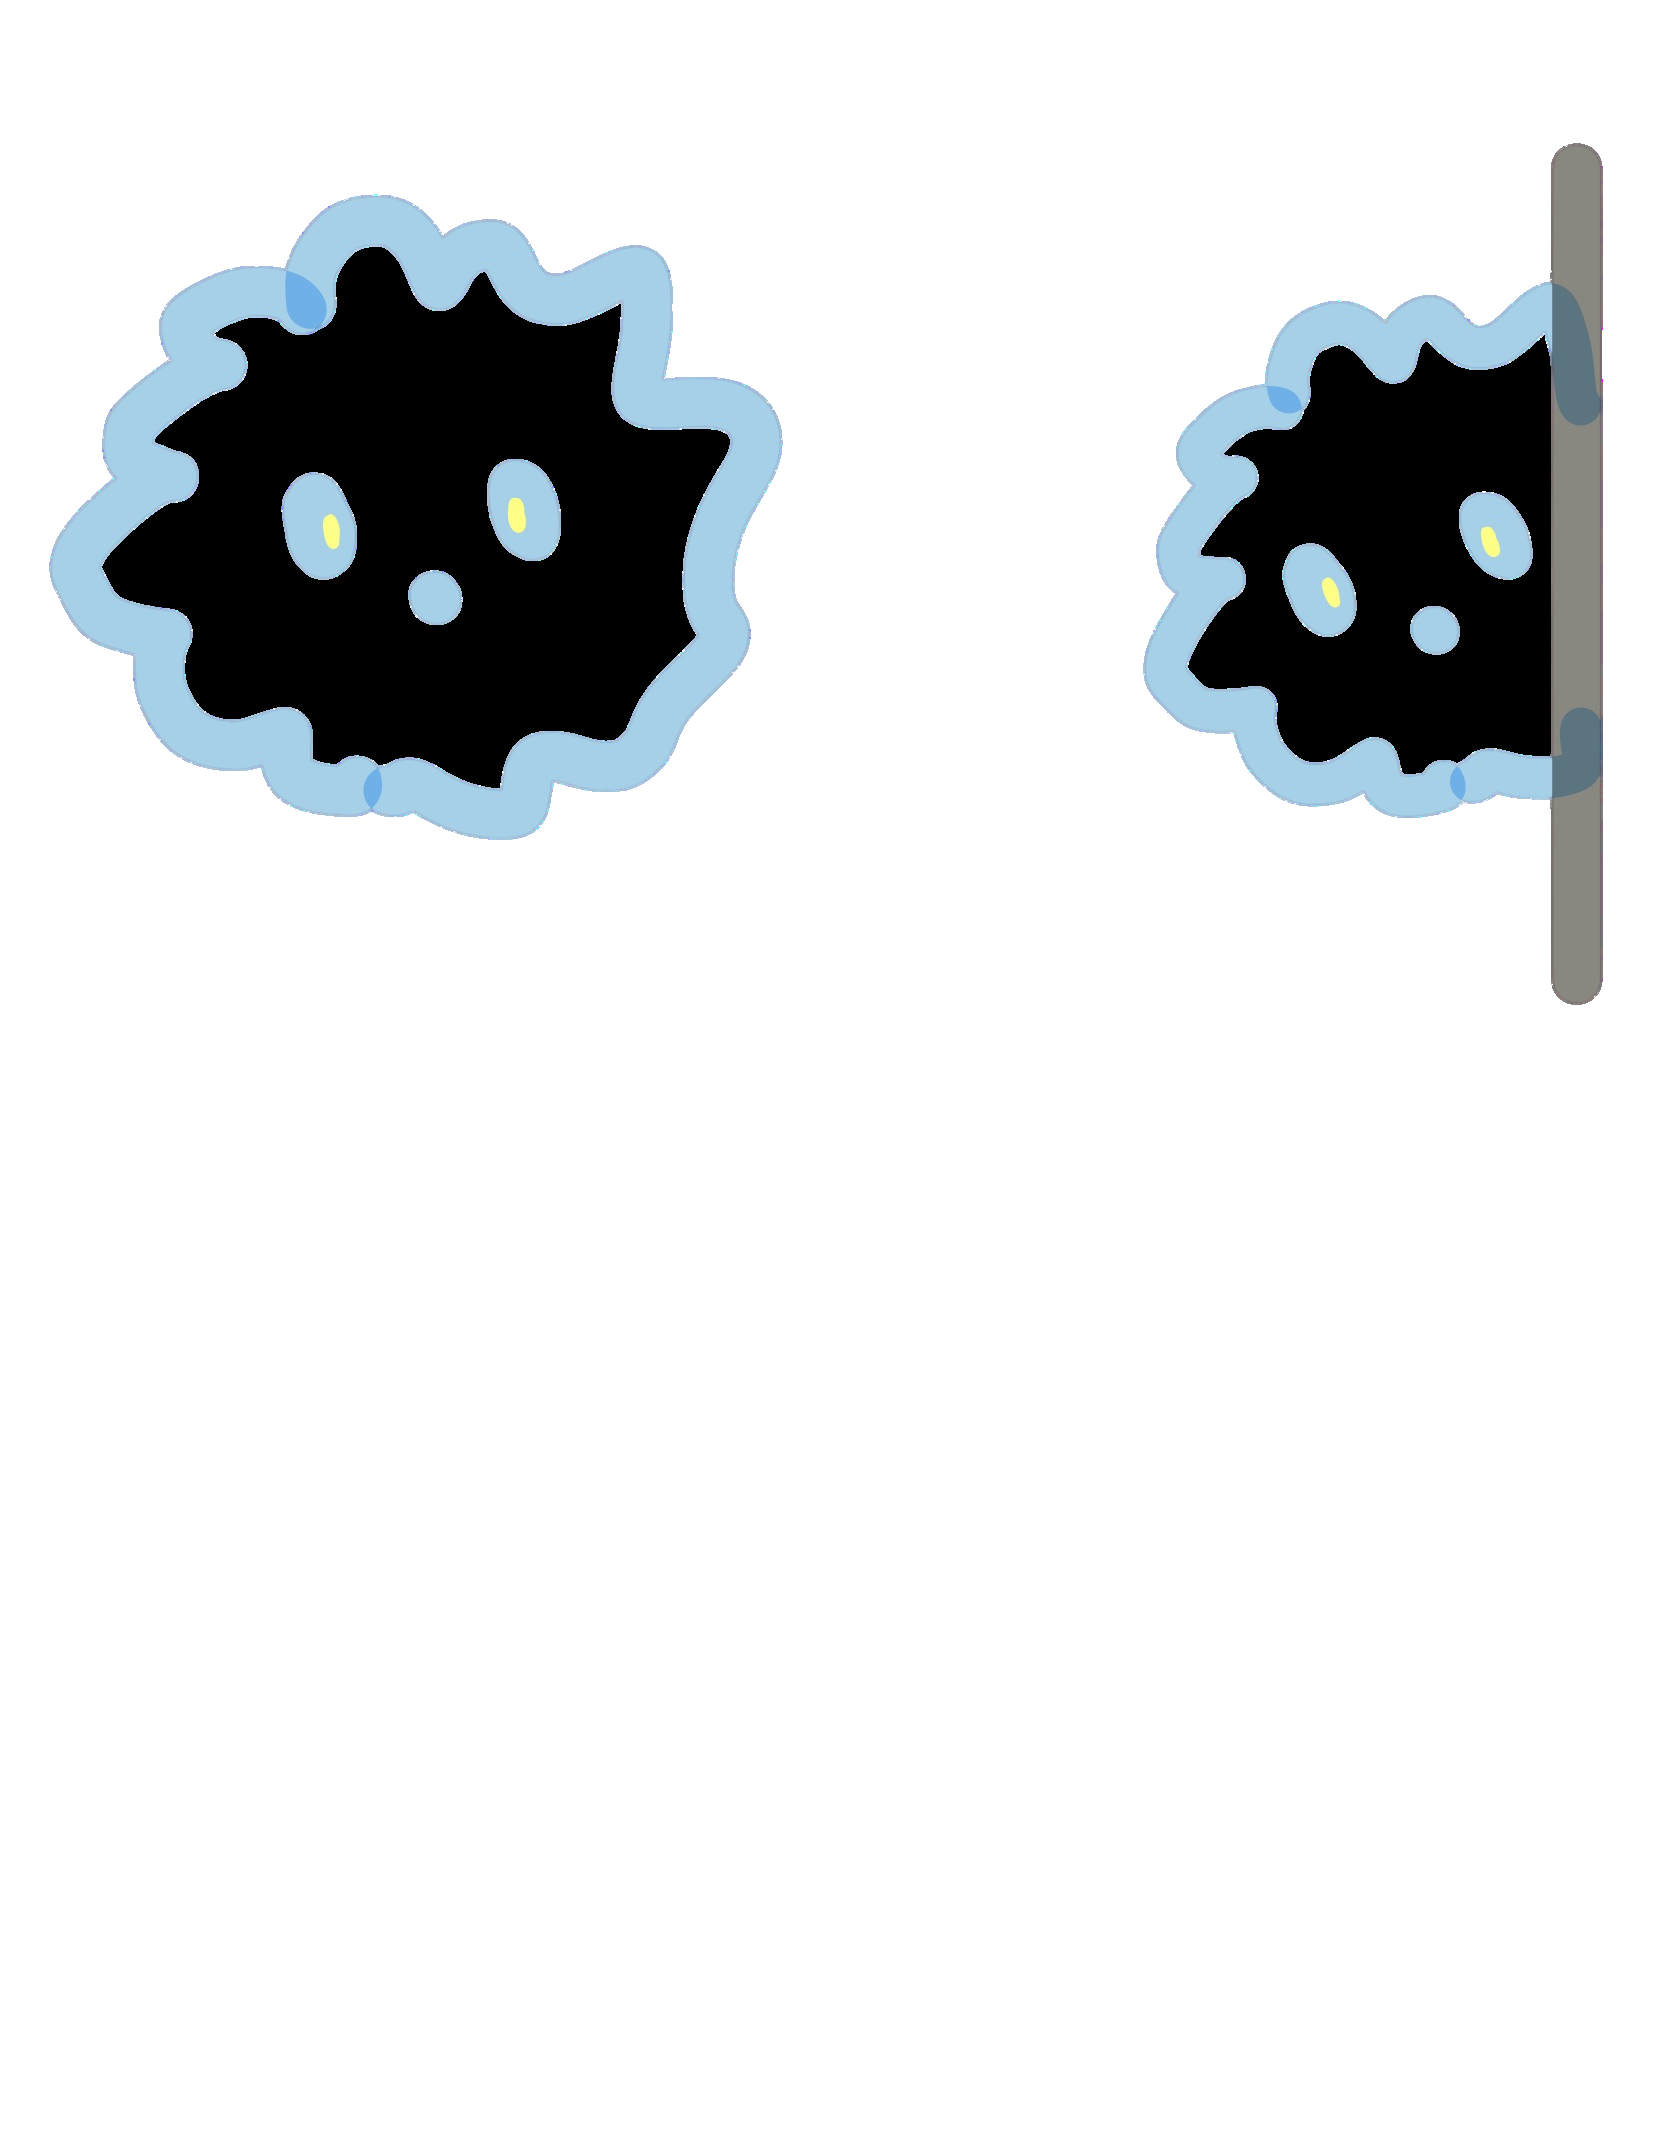
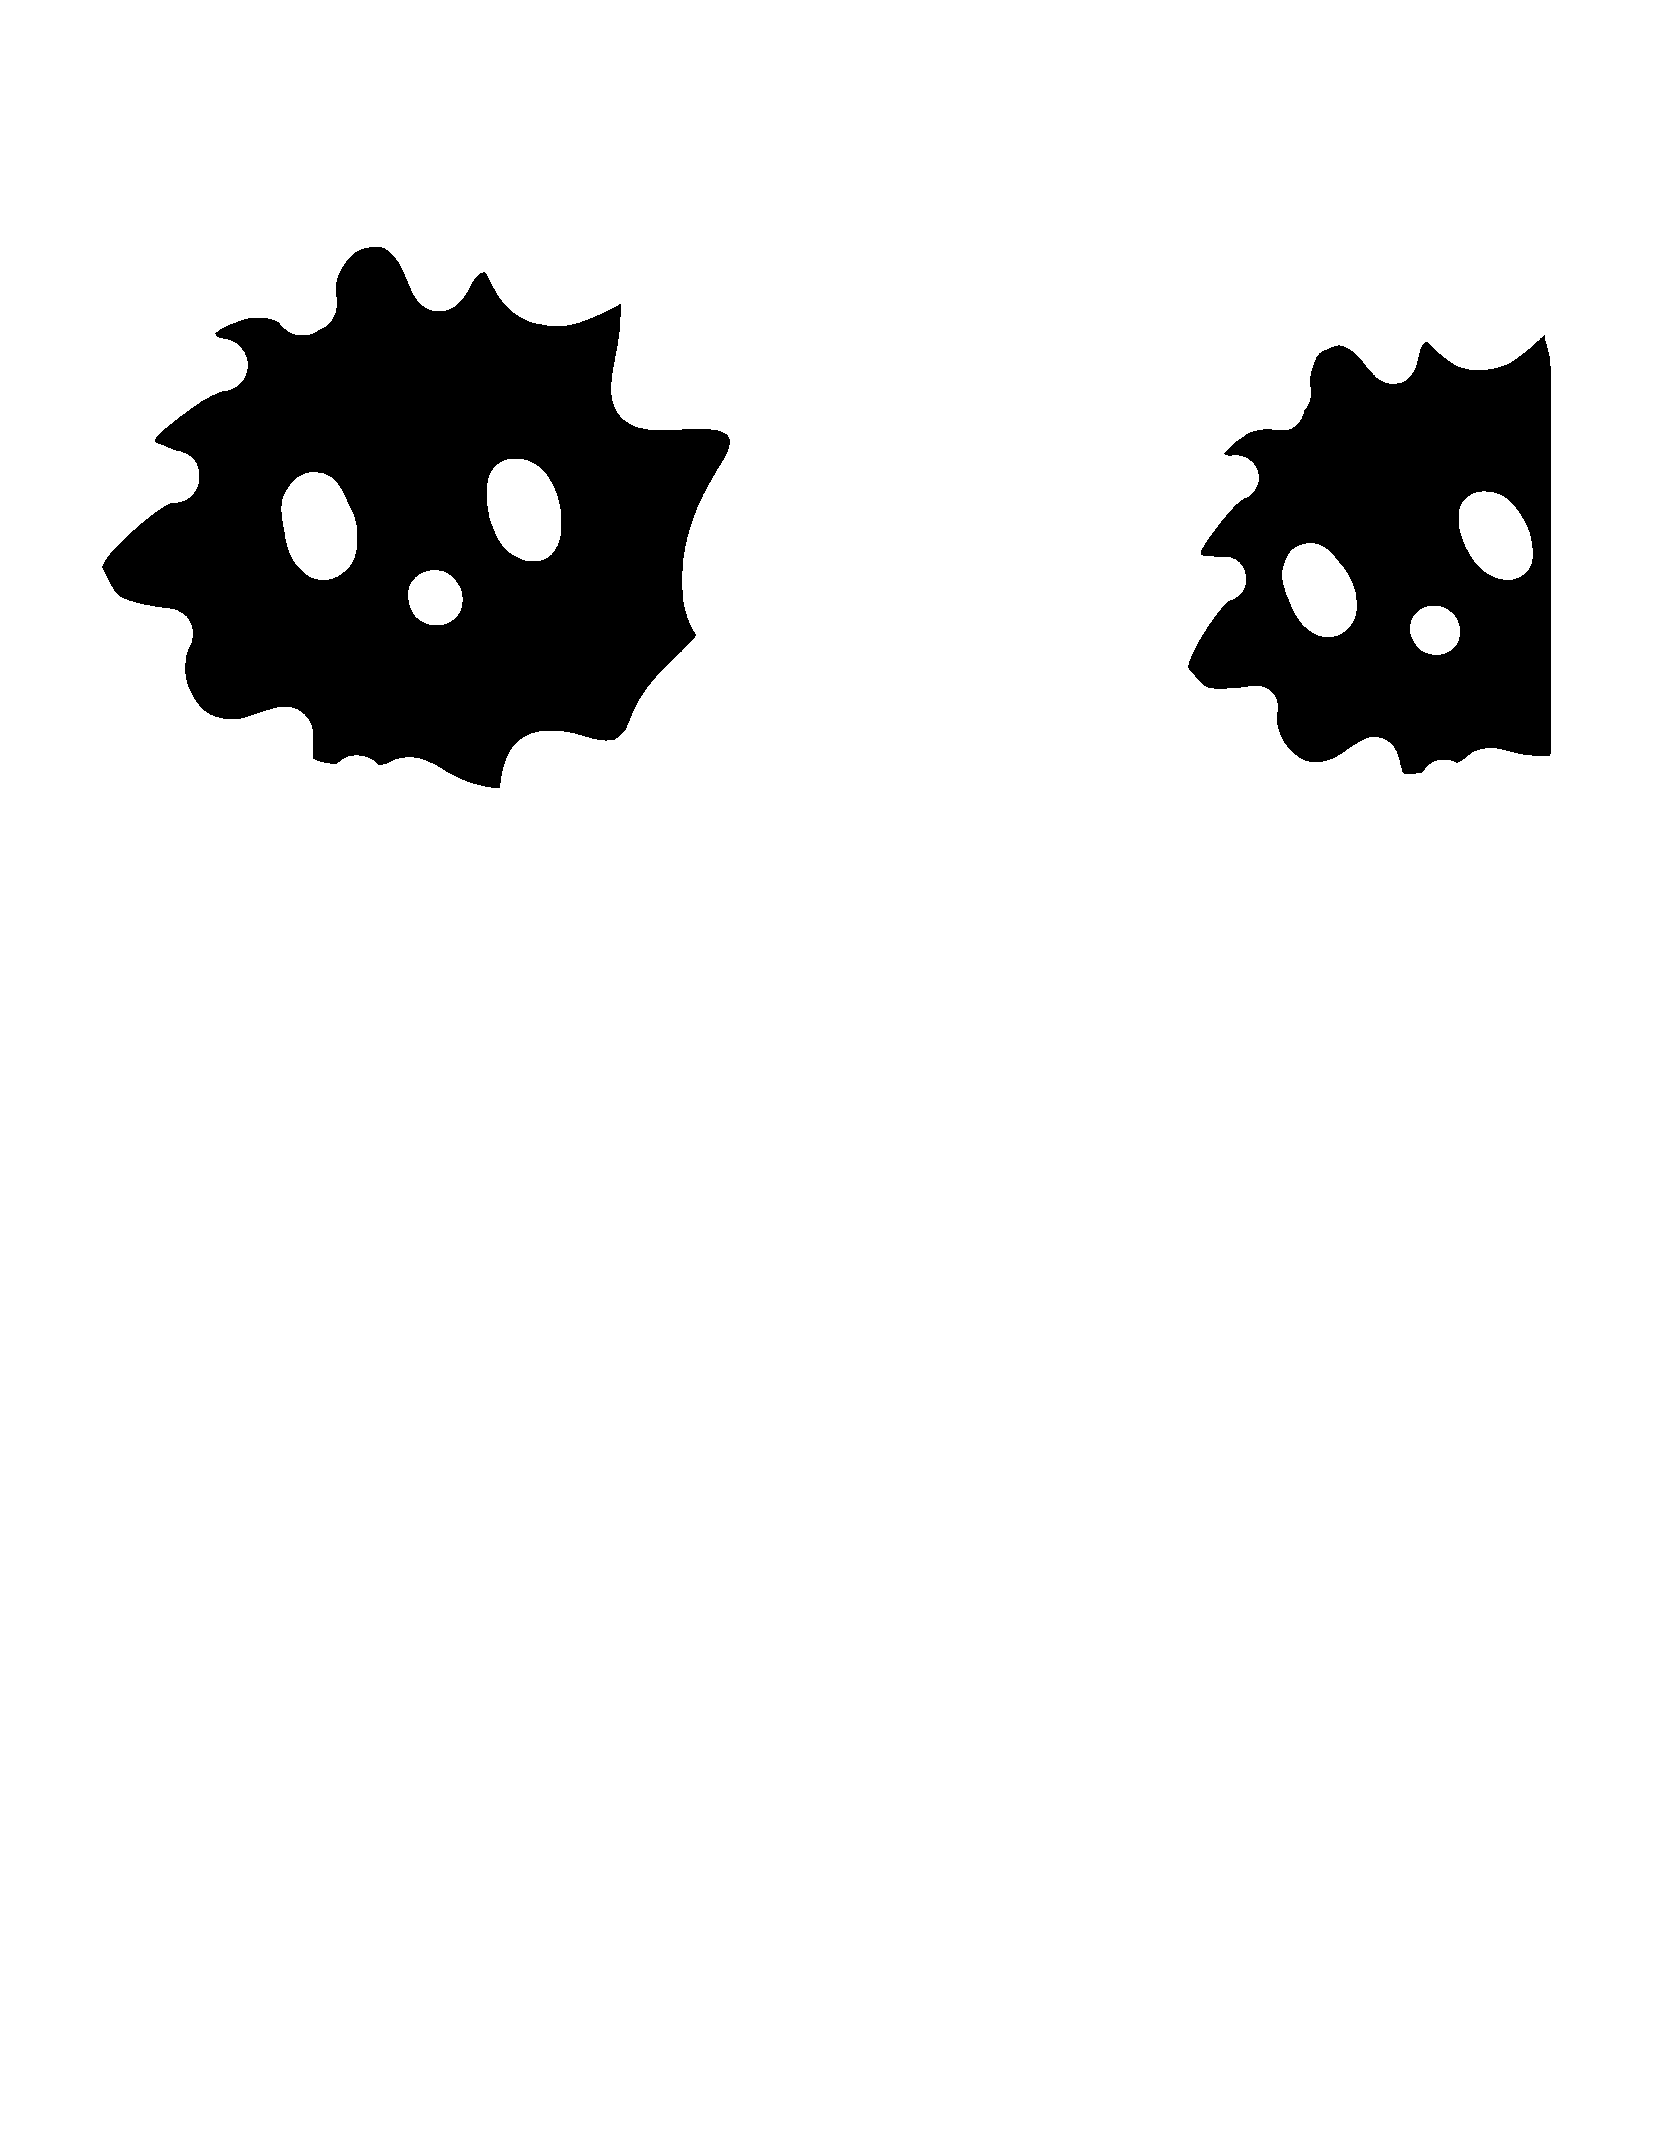
Fix double-pet: crop to single character; outline-only transparent body

diff --git a/lib/widgets/line_pet.dart b/lib/widgets/line_pet.dart
@@ -99,7 +99,7 @@ class _LinePetState extends State<LinePet> with TickerProviderStateMixin {
         final petX = isHiding ? hideX : slideStartX + (activeX - slideStartX) * t;
         final petY = isHiding ? hideY : hideY + (activeY - hideY) * t;
 
-        final opacity = isHiding ? 0.35 + 0.25 * _breathe.value : 0.28;
+        final opacity = isHiding ? 0.55 + 0.45 * _breathe.value : 1.0;
 
         // 1.svg = full body (conversation mode), 2.svg = peek body (hiding mode)
         final petImage = SizedBox(
